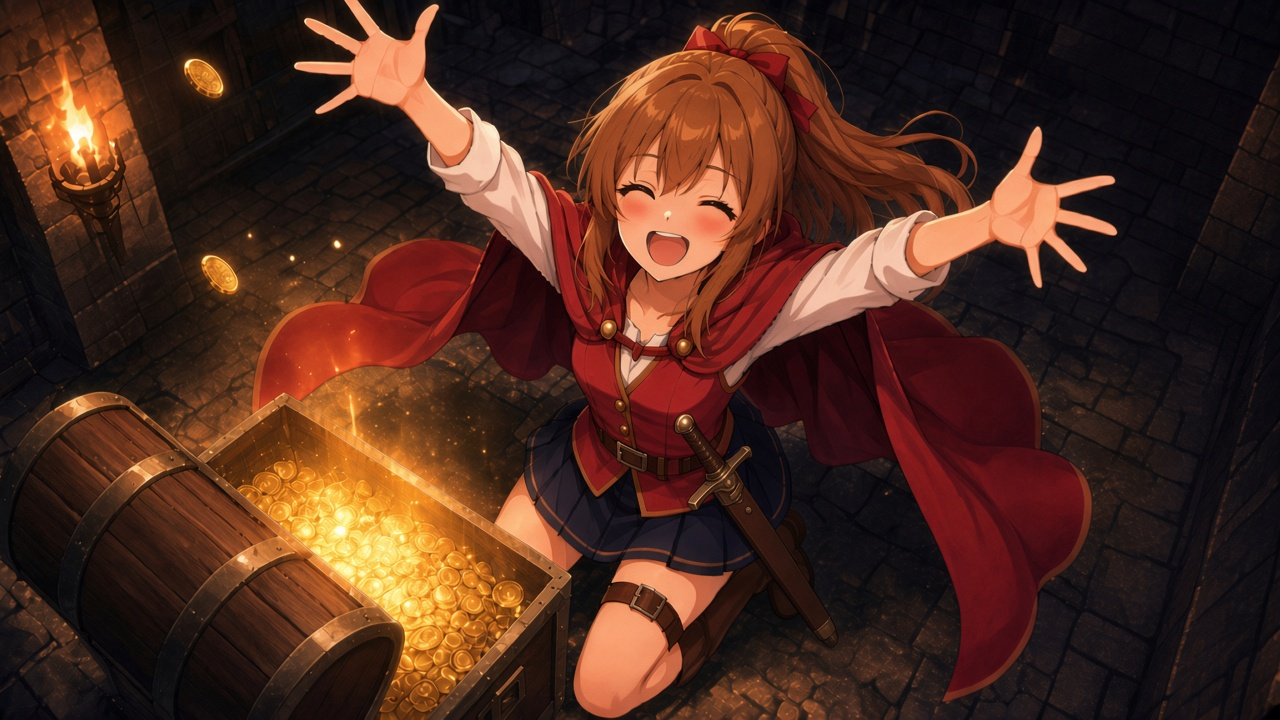
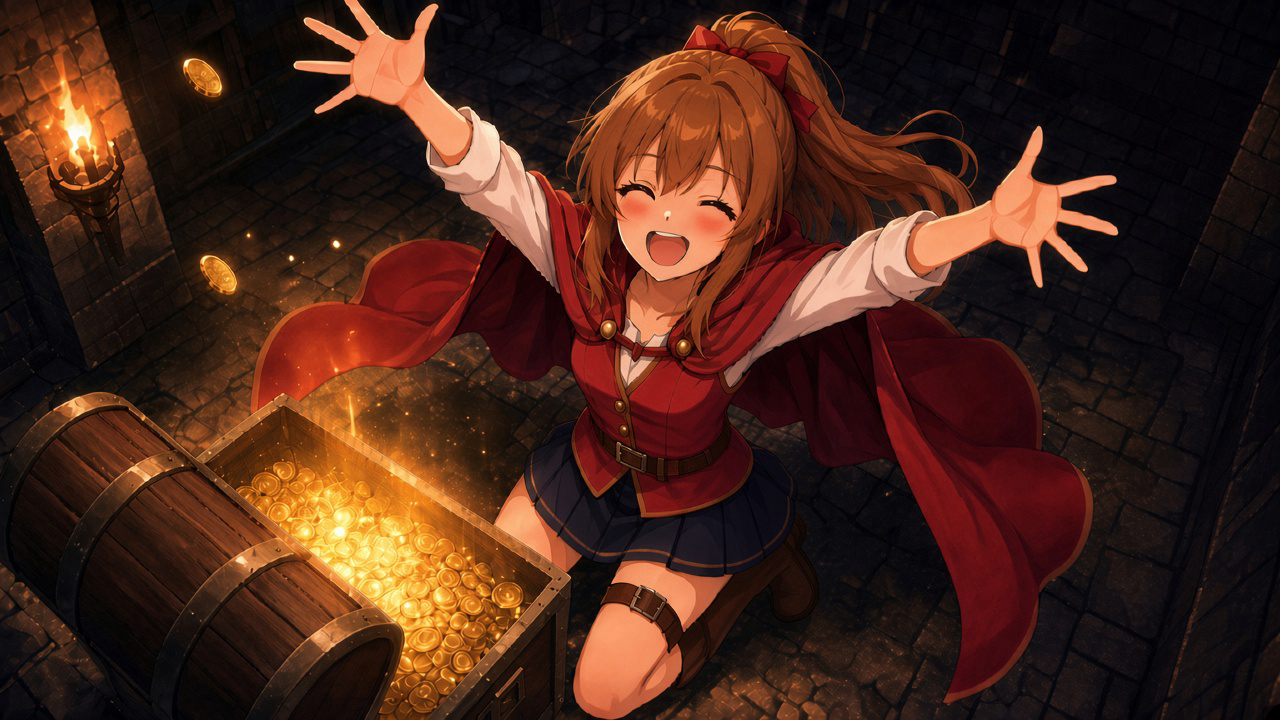
Fix parry, the character button, and the warrior pictures.

diff --git a/index.html b/index.html
@@ -4646,11 +4646,16 @@
     }
     .menu.event .event-prompt {
       margin-top: 8px;
-      padding-top: 16px;
-      border-top: 1px solid rgba(228, 177, 90, 0.45);
+      padding: 8px 14px;
+      border-top: 0;
+      border-radius: 10px;
+      width: fit-content;
       font-size: clamp(16px, 1.3vw, 20px);
-      letter-spacing: 0.16em;
-      color: #ffe7a4;
+      font-weight: 900;
+      letter-spacing: 0.12em;
+      color: #2a1408;
+      background: linear-gradient(180deg, #ffe7a8, #e4b15a);
+      text-shadow: none;
     }
     .menu.event .event-choice > p,
     .menu.event .event-choice > h2 {
@@ -4663,6 +4668,17 @@
       letter-spacing: 0.08em;
       color: #fff8e8;
       text-shadow: 0 2px 0 #1a120c;
+    }
+    .menu.event .event-choice > p.event-prompt {
+      width: fit-content;
+      margin-top: 8px;
+      padding: 8px 14px;
+      border-radius: 10px;
+      font-weight: 900;
+      letter-spacing: 0.12em;
+      color: #2a1408;
+      background: linear-gradient(180deg, #ffe7a8, #e4b15a);
+      text-shadow: none;
     }
     .menu.event .gift-row,
     .menu.event .shop-row { width: 100%; justify-content: space-between; }
@@ -5911,7 +5927,7 @@
       チャージアタック: { cost: 2, text: "7ダメージ", damage: 7 },
       ブロック: { cost: 1, text: "ブロック3", block: 3 },
       集中: { cost: 0, text: "次の攻撃か防御の数値+2", focus: 2 },
-      パリィ: { cost: 2, stars: 1, text: "パリィを得る", parry: true, kind: "block", note: "パリィは次の攻撃を1回無効にする。重ならない。攻撃を受けるまで残る。パリィがあるあいだは、シールドを得られない。" },
+      パリィ: { cost: 2, stars: 1, text: "パリィを得る", parry: true, kind: "block", note: "次の攻撃を１回無効にする。重複不可。ターン終了時に消失。パリィがある間、シールドを追加で得ることはできない。" },
     };
     const WARRIOR = {
       捨て身の一撃: { cost: 1, text: "6ダメージ\n次に受けるダメージ+3", damage: 6, kind: "attack", expose: 3 },
@@ -6038,7 +6054,7 @@
     let enemyLoop = [];
     let foeDiscard = [];
     const POISON_NOTE = "毒は、自分のターンが終わるとき、毒の数だけダメージを受ける。重なる。";
-    const PARRY_NOTE = "パリィは次の攻撃を1回無効にする。重ならない。攻撃を受けるまで残る。パリィがあるあいだは、シールドを得られない。奥義「パリィが重複する」のときは重なる。";
+    const PARRY_NOTE = "次の攻撃を１回無効にする。重複不可。ターン終了時に消失。パリィがある間、シールドを追加で得ることはできない。奥義「パリィが重複する」のときは重なる。";
     const INSTANT_NOTE = "インスタントは効果。使った戦闘のデッキから廃棄される。戦闘が終わると戻る。";
     const QUICK_NOTE = "クイックは、プレイエリアに置かず、すぐに効果が発動する。";
     let phase = "player";
@@ -6120,10 +6136,10 @@
         stand: "girl-front.png?v=11",
         chibi: "job-girl.png?v=8",
         action: "girl-action.jpg?v=5",
-        battle: "girl-battle.png?v=26",
+        battle: "girl-battle.png?v=27",
         battleRatio: "3 / 4",
-        defeat: "girl-defeat.png?v=9",
-        victory: "girl-victory.png?v=10",
+        defeat: "girl-defeat.png?v=10",
+        victory: "girl-victory.png?v=11",
         bless: "blessing-goddess-f.jpg?v=1",
       },
     ];
@@ -8219,6 +8235,10 @@
       logTurn("player");
       player.hurtLast = !!player.hurtThis;
       player.hurtThis = false;
+      if (parryCount(player) > 0) {
+        player.parry = 0;
+        log(`${heroName()}のパリィが、ターンの終わりに消失した。`);
+      }
       // 自分のシールドは、敵の番が終わって次の自分の番になるときに消える
       dropShield(player);
       syncGearStats();
@@ -9401,7 +9421,7 @@
         <aside class="cast-keys" aria-label="キーワード">
           <h2>キーワード</h2>
           <h3>パリィ</h3>
-          <p>次の攻撃を1回無効にする。重ならない。攻撃を受けるまで残る。金の盾で、シールドと同じ位置に出す。シールドがあるときはとなり。パリィがあるあいだは、シールドを得られない。</p>
+          <p>次の攻撃を１回無効にする。重複不可。ターン終了時に消失。パリィがある間、シールドを追加で得ることはできない。</p>
         </aside>`;
     }
 
@@ -9411,7 +9431,7 @@
     }
 
     function paintChallengeStart() {
-      const start = root.querySelector(".cast-start");
+      const start = root.querySelector('[data-action="dungeon-enter"]');
       if (!start) return;
       start.hidden = false;
       start.disabled = !challengeReady();
@@ -9582,7 +9602,7 @@
           <div class="cast-roster many">${tokens}</div>
           <div class="cast-actions">
             <button type="button" class="cast-back" data-action="title">もどる</button>
-            <button type="button" class="cast-start" data-action="open-dungeon">ダンジョンへ</button>
+            <button type="button" class="cast-start" data-action="open-dungeon">このキャラに決めた！</button>
           </div>
         </div>`;
       paintCast();
@@ -9732,14 +9752,14 @@
             <h3>女の戦士</h3>
             <div class="ref-grid pose-grid">
               ${sheetFig("girl-front.png?v=11", "キャラデザ", "cut-ref")}
-              ${sheetFig("girl-battle.png?v=26", "戦闘（縁取り）", "cut-ref")}
+              ${sheetFig("girl-battle.png?v=27", "戦闘（縁取り）", "cut-ref")}
               ${sheetFig("girl-battle-prev.png?v=1", "戦闘（前）", "cut-ref")}
               ${sheetFig("girl-battle-next.png?v=1", "戦闘（切り抜き直し）", "cut-ref")}
               ${sheetFig("girl-battle-next2.png?v=1", "戦闘（切り抜き直し2）", "cut-ref")}
             </div>
             <div class="ref-grid">
-              ${sheetFig("girl-defeat.png?v=9", "敗北", "land-ref", "wide-land")}
-              ${sheetFig("girl-victory.png?v=10", "勝利", "land-ref", "wide-land")}
+              ${sheetFig("girl-defeat.png?v=10", "敗北", "land-ref", "wide-land")}
+              ${sheetFig("girl-victory.png?v=11", "勝利", "land-ref", "wide-land")}
             </div>
             <h3>ジョブ選択</h3>
             <div class="ref-grid">
@@ -11751,7 +11771,7 @@
           screen = "character";
           render();
         }
-        if (name === "open-dungeon") { screen = "dungeon"; render(); }
+        if (name === "open-dungeon") { castLock = shownCastName(); screen = "dungeon"; render(); }
         if (name === "cast-token") {
           castLock = action.dataset.cast || castLock;
           castHover = "";
